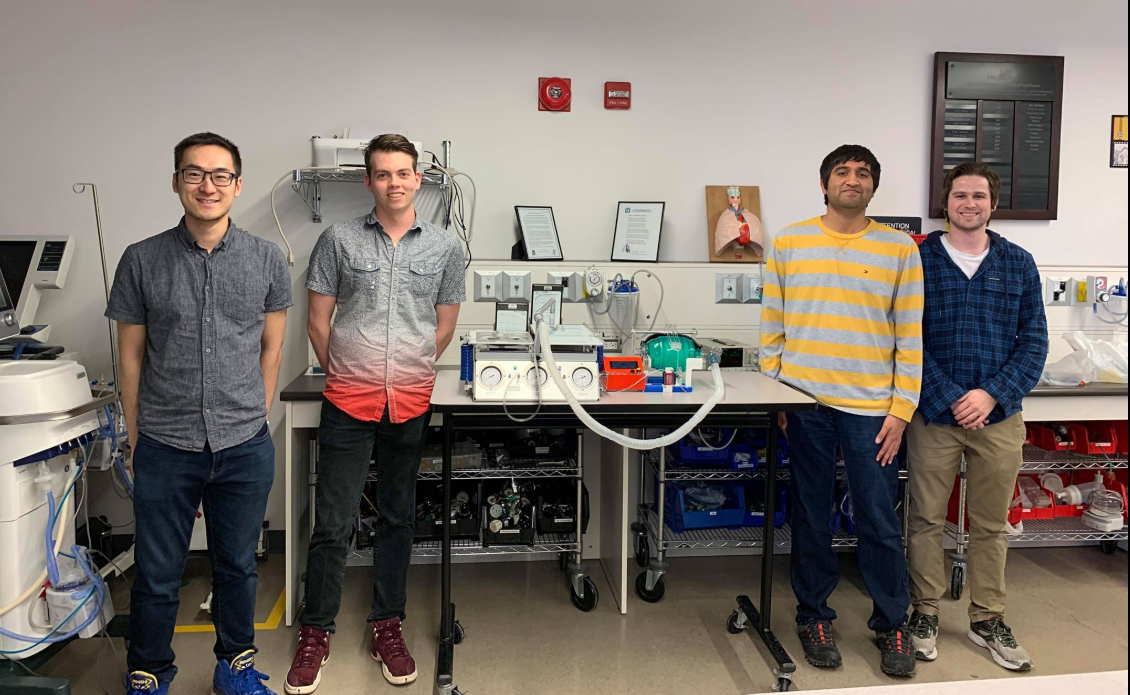
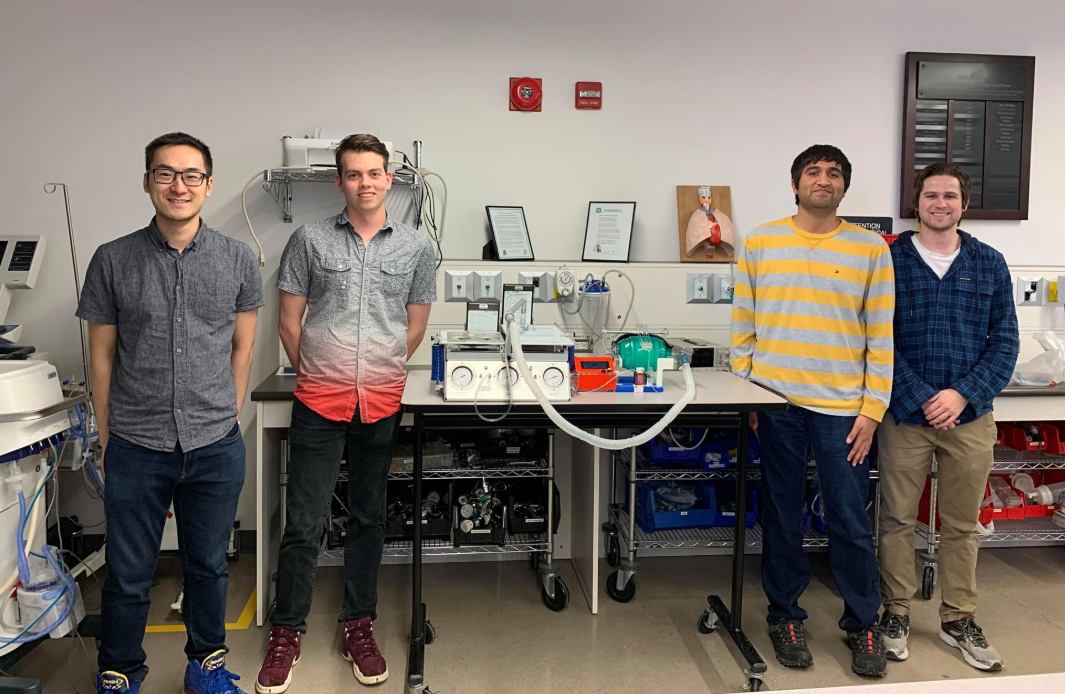
Reorder the team bios based on new picture

diff --git a/team.md b/team.md
@@ -13,8 +13,19 @@ title: Team
 
 <hr class="section">
 
+### Brian Mao, <span style="font-size:18px; font-color:#ECF0F1;"> *Mechanical Engineering* </span>
+<img src="/assets/img/Brian_Bio_Picture.PNG" style="padding-top:5px; padding-right: 10px" width="180" align="left">
+
+<div style="text-align: justify"> <p> I’m a mechanical engineering student that’s also pursuing a minor in mathematics. The areas within engineering that I enjoy the most tend to be very mathematically intensive such as control systems, finite element methods, and autonomous robotics. </p>
+
+<p> I’ve worked under a large variety industries throughout my co-op terms including software development, engineering simulation, factory automation, and metal tooling. I was even fortunate enough to work at Apple in California during my last co-op term, and visit China on a business trip. </p>
+
+<p> I’ve acquired a very diverse skill set from all of my experience which includes programming, simulation, CAD, and design. I’m excited for the endeavours that await in the future.
+</p> </div>
+&nbsp;
+
 ### Connor Simmons, <span style="font-size:18px; font-color: white;"> *Mechatronics Engineering* </span>
-<img src="/assets/img/Connor_Photo.jpg" style="padding-top:5px; padding-right: 10px" width="180" align="left">
+<img src="/assets/img/Connor_Photo.jpg" style="padding-top:5px; padding-left: 10px" width="180" align="right">
 
 <div style="text-align: justify"> <p> Originally from a small town south of Ottawa, I have always been interested in the latest toy or gadget. This interest has only grown from my time studying to be an Engineer, except the toys have gotten bigger and more expensive. </p>
 
@@ -25,7 +36,7 @@ title: Team
 &nbsp;
 
 ### Aditya Matam, <span style="font-size:18px; font-color:#ECF0F1;"> *Mechanical Engineering* </span>
-<img src="/assets/img/Adi_Photo.jpg" style="padding-top:5px; padding-left: 10px" width="160" align="right">
+<img src="/assets/img/Adi_Photo.jpg" style="padding-top:5px; padding-right: 10px" width="160" align="left">
 <div style="text-align: justify"> <p> I was introduced to programming in grade 10 while I was participating in extracurricular student clubs. Since then, my exposure to new technologies in my studies and co-op terms has only heightened this interest. </p>
 
 <p> In my various co-op terms, I have gained industry experience in a diverse area of software engineering fields, including robotics and embedded software. Most recently, I've had the chance to work on autonomous vehicles at Lyft, developing algorithms for their mapping teams. My work on the University of Waterloo's Robotics Team has also given me hands on experience in mechanical design and basic manufacturing.</p>

diff --git a/index.md b/index.md
@@ -18,9 +18,9 @@ A bag valve mask is a device used by paramedics to provide ventilation for patie
 
 # Benefits
 
-<h2 align="left"><img src="/assets/img/Lungs.png" style="padding-left:300px; padding-right:10px" width="100"> Consistent Breath Volume </h2>
-<h2 align="left"><img src="/assets/img/Gear.png" style="padding-left:300px; padding-right:10px" width="100"> Adjustable Settings </h2>
-<h2 align="left"><img src="/assets/img/Checkmark.png" style="padding-left:300px; padding-right:10px" width="100"> Easy to Use </h2>
+<h2 align="left"><img src="/assets/img/Lungs.png" style="padding-left:400px; padding-right:20px" width="100"> Consistent Breath Volume </h2>
+<h2 align="left"><img src="/assets/img/Gear.png" style="padding-left:400px; padding-right:20px" width="100"> Adjustable Settings </h2>
+<h2 align="left"><img src="/assets/img/Checkmark.png" style="padding-left:400px; padding-right:20px" width="100"> Easy to Use </h2>
 
 <hr class="section">
 
@@ -30,12 +30,13 @@ At AIR, we are focused on creating a meaningful solution to a problem which coul
 
 In underdeveloped countries, family members are often trained to perform manual ventilation using bag valve mask compression. As full size modern ventilators are not easily accessible in these locations, one may be forced to perform BVM resuscitation for hours at a time. Inconsistencies in breath parameters become even more significant when being operated by someone will less experience, for prolonged time. Our device could be used as a low cost alternative to a traditional ventilator, and provide much more consistent recuscitation.
 
-<img src="/assets/img/General_Paramedic_Logo.png" style="padding-left: 250 px" width="100" align="center">
-<img src="/assets/img/Red_Cross.png" style="padding-left: 100 px" width="100" align="center">
+<img src="/assets/img/General_Paramedic_Logo.png" style="padding-left: 250 px" width="100" align="left"> <img src="/assets/img/Red_Cross.png" style="padding-left: 100 px" width="100" align="left">
 
 &nbsp;
 
 For more information, see our <a href="/about.html">About page</a>.
+
+---
 
 <h2 align="center"><i>Breathing AIR Into Patients</i></h2>
 
